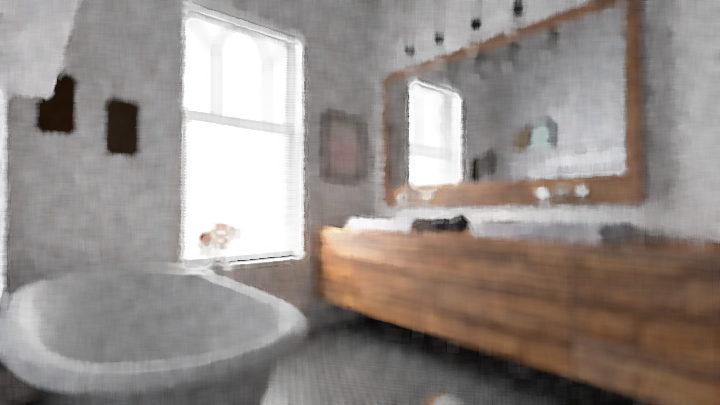
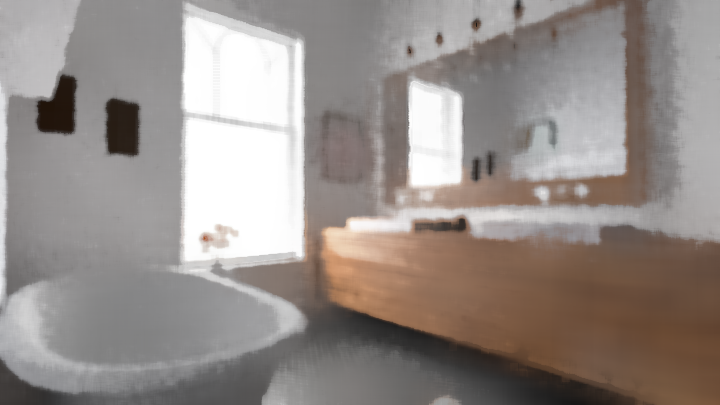
fix nlm denoiser

diff --git a/apps/nlm_denoiser/nlm_denoiser.cpp b/apps/nlm_denoiser/nlm_denoiser.cpp
@@ -67,8 +67,8 @@ float compute_weight(img::image<vec4f>& img,  vec2i q_coords, int radius, float 
 }
 
 //implementation of pixelwise non-local means denoiser
-void pixelwise_NLM(img::image<vec4f>& img, img::image<vec4f>& output, int radius,
-            float h_filter, float sigma){
+void pixelwise_NLM(img::image<vec4f>& img, img::image<vec4f>& output, int radius, 
+            int big_radius, float h_filter, float sigma){
     
     //image size
     auto w = img.size().x;
@@ -89,12 +89,12 @@ void pixelwise_NLM(img::image<vec4f>& img, img::image<vec4f>& output, int radius
             //get the pixel
             auto& p = img[{i,j}];
 
-            //computing the window of p of radius r
+            //computing the window of p of radius big_r
             //clamp to avoid index out of bound
-            auto start_horizontal = clamp(i - radius, 0, w - 1);
-            auto end_horizontal   = clamp(i + radius, 0, w - 1);
-            auto start_vertical   = clamp(j - radius, 0, h - 1);
-            auto end_vertical     = clamp(j + radius, 0, h - 1);
+            auto start_horizontal = clamp(i - big_radius, 0, w - 1);
+            auto end_horizontal   = clamp(i + big_radius, 0, w - 1);
+            auto start_vertical   = clamp(j - big_radius, 0, h - 1);
+            auto end_vertical     = clamp(j + big_radius, 0, h - 1);
 
             //C(p)
             auto c = 0.0f;
@@ -133,7 +133,8 @@ int main(int argc, const char* argv[]) {
     //params
     auto input_path = ""s;
     auto output_path = ""s;
-    auto radius = 0;
+    auto patch_r = 0;
+    auto big_r = 0;
     auto h= 0.0f;
     auto sigma = 0.0f;
     
@@ -141,7 +142,8 @@ int main(int argc, const char* argv[]) {
     auto cli = cli::make_cli("nlm_denoiser", "Non-local means denoiser");
     add_option(cli, "--input", input_path, "Input path");
     add_option(cli, "--output", output_path, "Output path");
-    add_option(cli, "--radius", radius, "radius");
+    add_option(cli, "--patch_r", patch_r, "Patch radius");
+    add_option(cli, "--big_r", big_r, "Window radius");
     add_option(cli, "--h", h, "h");
     add_option(cli, "--sigma", sigma, "sigma");
     parse_cli(cli, argc, argv);
@@ -170,7 +172,7 @@ int main(int argc, const char* argv[]) {
     std::cout << "Processing..." << std::endl;
 
     //apply the algorithm
-    pixelwise_NLM(img, output, radius, h_filter, sigma);
+    pixelwise_NLM(img, output, patch_r, big_r, h_filter, sigma);
 
     //saving image
     std::cout << "Saving " + output_path << std::endl;
